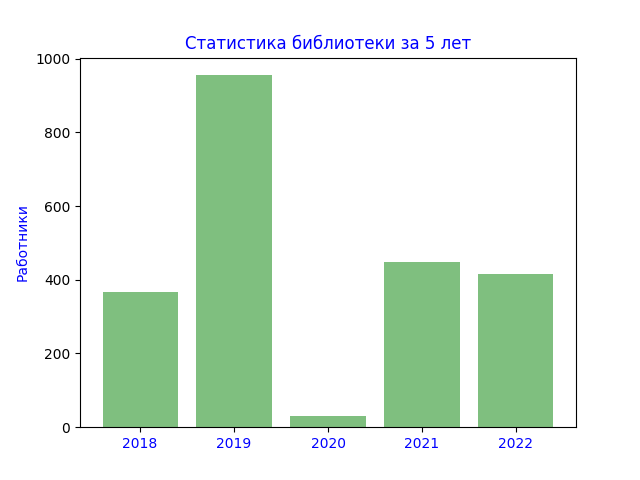
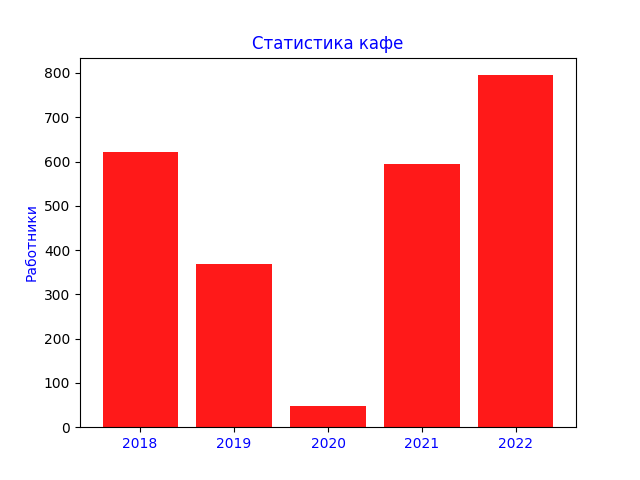
prac 8 change
prac 8 change

diff --git a/task_8/mysite/site_library/templates/site_library/graphs.html b/task_8/mysite/site_library/templates/site_library/graphs.html
@@ -33,7 +33,7 @@
             </ul>
         </div>
     </nav>
-    <center><h4 style='margin-left: 15px;'>Статистика библиотеки</h4></center>
+    <center><h4 style='margin-left: 15px;'>Статистика кафе за 5 лет</h4></center>
     <div class="graphs" style="display:flex; flex-wrap: wrap; align-items: center; justify-content: space-around;">
         {%for g in graphs%}
         <div class="graph" style="width: 400px; height: 400px; margin: 10px;">

diff --git a/task_8/mysite/site_library/graphs.py b/task_8/mysite/site_library/graphs.py
@@ -15,10 +15,10 @@ def plot_random_numbers(n):
         objects = ("2018", "2019", "2020", "2021", "2022")
         years = np.arange(len(objects))
 
-        plt.bar(years, humans, align="center", alpha=0.5, color="green")
+        plt.bar(years, humans, align="center", alpha=0.9, color="red")
         plt.xticks(years, objects, color="blue")
         plt.ylabel("Работники", color="blue")
-        plt.title("Статистика библиотеки за 5 лет", color="blue")
+        plt.title("Статистика кафе", color="blue")
         try:
             os.remove(f"site_library/templates/site_library/static/graph{i}.png")
         except FileNotFoundError:
